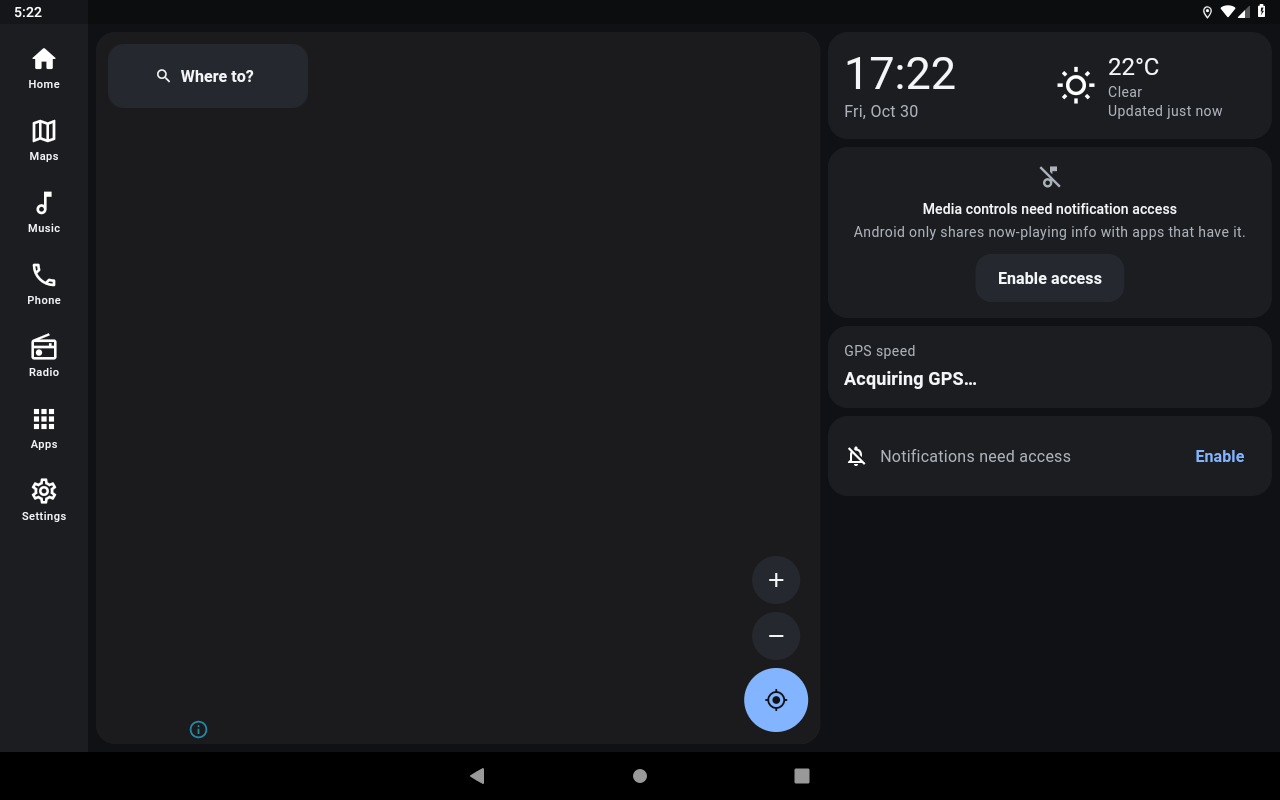
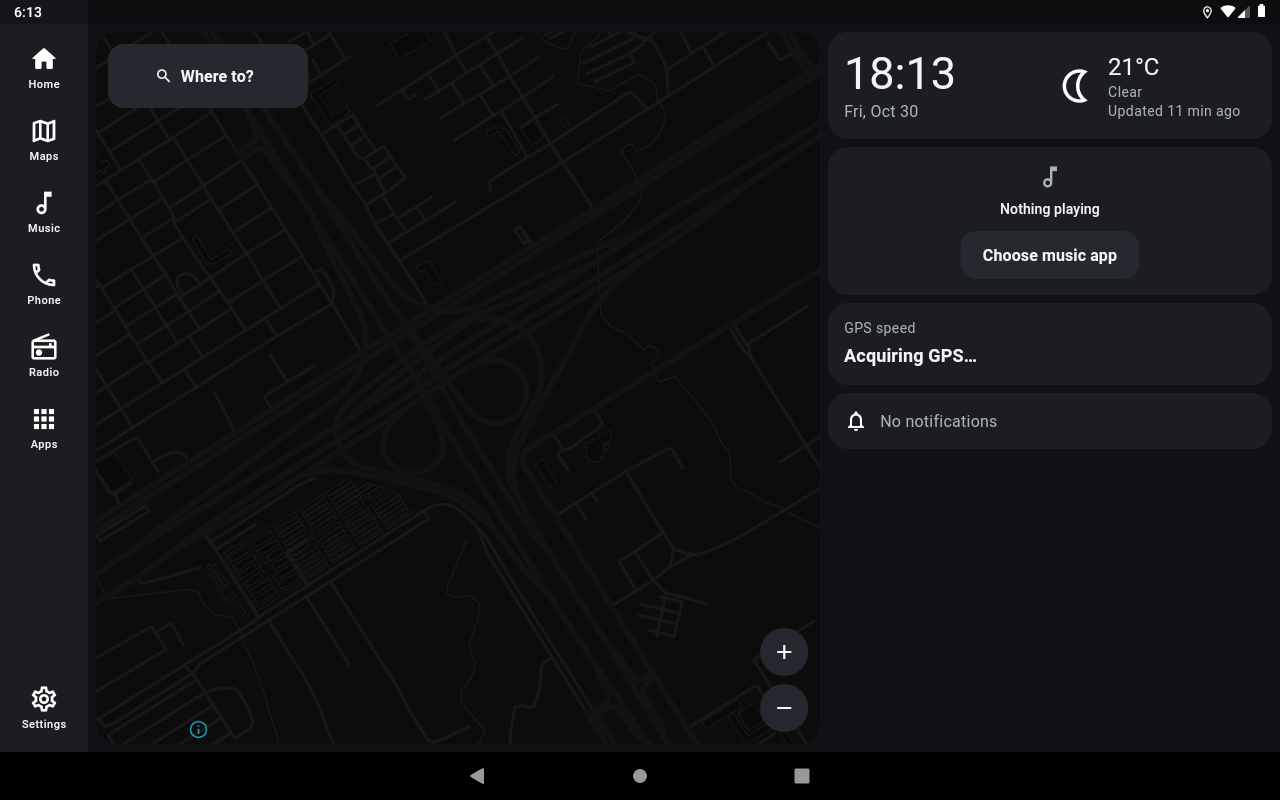
Pin Settings in the dock, cut idle map redraws, measure performance, build release
- Dock: Settings sits outside the scrolling list so it stays reachable when the user pins more apps
  than fit; regression test at 683x400 dp with 9 entries.
- Map: skip near-duplicate location pushes (3 m / 10 deg) and keep the puck fresh with one push every
  25 s; idle CPU on the emulator 15.9 % -> 8.4 % of a core.
- Performance mode now also stops the per-second media progress tick, as Settings promised.
- Debug/profile builds show frames per 10 s on Diagnostics (vivo throttles logcat).
- docs: PERFORMANCE.md with phone and emulator numbers and APK sizes; TESTING and COMPATIBILITY
  updated with the phone results and the emulator SwiftShader limitation; new dashboard screenshot.

diff --git a/lib/features/dashboard/ui/dock.dart b/lib/features/dashboard/ui/dock.dart
@@ -57,19 +57,15 @@ class Dock extends ConsumerWidget {
 
   @override
   Widget build(BuildContext context, WidgetRef ref) {
+    // Settings is pinned at the end, outside the scrolling part, so it stays reachable even when the user
+    // removed it from the dock or added more entries than fit.
     final entries = ref
         .watch(settingsProvider.select((s) => s.dock))
         .map(DockEntry.parse)
         .nonNulls
+        .where((e) => !(e is BuiltinEntry && e.id == 'settings'))
         .toList();
-    final hasSettings = entries.any(
-      (e) => e is BuiltinEntry && e.id == 'settings',
-    );
-    final shown = [
-      ...entries,
-      // Settings must always be reachable, even if the user removed it from the dock.
-      if (!hasSettings) const BuiltinEntry('settings'),
-    ];
+    const padding = EdgeInsets.all(SdSpace.sm);
     return Material(
       color: Theme.of(context).colorScheme.surface,
       child: SafeArea(
@@ -83,16 +79,38 @@ class Dock extends ConsumerWidget {
               // Shrink buttons so the whole dock fits (e.g. 1024x600 at hdpi is only ~400 dp tall); below the
               // minimum touch target the dock scrolls instead.
               final main = vertical ? box.maxHeight : box.maxWidth;
-              final extent = ((main - 2 * SdSpace.sm) / shown.length).clamp(
-                SdSize.minTarget,
-                72.0,
-              );
-              return ListView(
-                scrollDirection: vertical ? Axis.vertical : Axis.horizontal,
-                padding: const EdgeInsets.all(SdSpace.sm),
+              final extent = ((main - 2 * SdSpace.sm) / (entries.length + 1))
+                  .clamp(SdSize.minTarget, 72.0);
+              final axis = vertical ? Axis.vertical : Axis.horizontal;
+              return Flex(
+                direction: axis,
                 children: [
-                  for (final e in shown)
-                    _DockButton(entry: e, extent: extent, vertical: vertical),
+                  Expanded(
+                    child: ListView(
+                      scrollDirection: axis,
+                      padding: vertical
+                          ? padding.copyWith(bottom: 0)
+                          : padding.copyWith(right: 0),
+                      children: [
+                        for (final e in entries)
+                          _DockButton(
+                            entry: e,
+                            extent: extent,
+                            vertical: vertical,
+                          ),
+                      ],
+                    ),
+                  ),
+                  Padding(
+                    padding: vertical
+                        ? padding.copyWith(top: 0)
+                        : padding.copyWith(left: 0),
+                    child: _DockButton(
+                      entry: const BuiltinEntry('settings'),
+                      extent: extent,
+                      vertical: vertical,
+                    ),
+                  ),
                 ],
               );
             },

diff --git a/lib/features/maps/ui/map_panel.dart b/lib/features/maps/ui/map_panel.dart
@@ -15,6 +15,7 @@ import '../../apps/ui/app_picker.dart';
 import '../../location/data/location_repository.dart';
 import '../../location/state/location_providers.dart';
 import '../../navigation/data/navigation_models.dart';
+import '../../navigation/domain/route_geometry.dart';
 import '../../navigation/state/navigation_providers.dart';
 import '../../navigation/ui/destination_sheet.dart';
 import '../../navigation/ui/nav_banner.dart';
@@ -38,6 +39,7 @@ class _MapPanelState extends ConsumerState<MapPanel> {
   bool _follow = true;
   bool _failed = false;
   bool _zoomedToFirstFix = false;
+  LocationFix? _lastPushed;
   int _generation = 0;
   Timer? _timeout;
   final _initWatch = Stopwatch();
@@ -109,7 +111,8 @@ class _MapPanelState extends ConsumerState<MapPanel> {
     }
     if (mounted) setState(() => _styleLoaded = true);
     final fix = ref.read(locationProvider).fix;
-    if (fix != null) _pushFix(fix);
+    // A (re)loaded style has a fresh location component, so always push.
+    if (fix != null) _pushFix(fix, force: true);
   }
 
   static String _hex(Color c) =>
@@ -190,9 +193,28 @@ class _MapPanelState extends ConsumerState<MapPanel> {
     );
   }
 
-  void _pushFix(LocationFix fix) {
+  /// Every pushed fix re-runs the native puck/camera animation (~100 frames on the test phone), so
+  /// near-duplicates from a parked car are skipped; a periodic push keeps the puck from looking stale
+  /// (MapLibre greys it after 30 s without an update, and the plugin does not expose that timeout).
+  bool _worthPushing(LocationFix fix) {
+    final last = _lastPushed;
+    if (last == null ||
+        monotonicNow() - last.fixTime > const Duration(seconds: 25)) {
+      return true;
+    }
+    final moved = haversine(
+      GeoPoint(last.lat, last.lon),
+      GeoPoint(fix.lat, fix.lon),
+    );
+    final turned = ((fix.bearing ?? 0) - (last.bearing ?? 0)).abs() % 360;
+    return moved > 3 || (turned > 10 && turned < 350);
+  }
+
+  void _pushFix(LocationFix fix, {bool force = false}) {
     final c = _controller;
     if (c == null || !_styleLoaded) return;
+    if (!force && !_worthPushing(fix)) return;
+    _lastPushed = fix;
     c
         .updateManualLocation(
           ManualLocationUpdate(

diff --git a/lib/core/perf/perf_metrics.dart b/lib/core/perf/perf_metrics.dart
@@ -1,3 +1,5 @@
+import 'dart:async';
+
 import 'package:flutter/foundation.dart';
 import 'package:flutter/scheduler.dart';
 
@@ -6,12 +8,24 @@ abstract final class PerfMetrics {
   static final _recent = <FrameTiming>[];
   static Duration? mapInitTime;
   static Duration? firstFrameTime;
+  static int _framesSinceReport = 0;
+
+  /// Frames rendered in each of the last six 10-second windows, newest last.
+  static final framesPer10s = <int>[];
 
   static void install() {
     if (kReleaseMode) return;
     SchedulerBinding.instance.addTimingsCallback((timings) {
+      _framesSinceReport += timings.length;
       _recent.addAll(timings);
       if (_recent.length > 240) _recent.removeRange(0, _recent.length - 240);
+    });
+    // Console only (not the diagnostic log): frames per 10 s shows what an idle dashboard costs.
+    Timer.periodic(const Duration(seconds: 10), (_) {
+      debugPrint('[perf] $_framesSinceReport frames in 10 s');
+      framesPer10s.add(_framesSinceReport);
+      if (framesPer10s.length > 6) framesPer10s.removeAt(0);
+      _framesSinceReport = 0;
     });
   }
 

diff --git a/lib/features/media/ui/media_card.dart b/lib/features/media/ui/media_card.dart
@@ -225,7 +225,8 @@ class _NowPlaying extends ConsumerWidget {
 }
 
 /// Progress extrapolated locally from the last reported position. Ticks once a second, only while
-/// playing and visible (TickerMode is off when a route covers the dashboard).
+/// playing and visible (TickerMode is off when a route covers the dashboard) and not in performance mode,
+/// where it moves only when the player reports a new position.
 class _Progress extends ConsumerStatefulWidget {
   const _Progress({required this.session});
 
@@ -246,6 +247,7 @@ class _ProgressState extends ConsumerState<_Progress> {
       if (mounted &&
           widget.session.isPlaying &&
           TickerMode.valuesOf(context).enabled &&
+          !ref.read(settingsProvider).performanceMode &&
           _dragValue == null) {
         setState(() {});
       }

diff --git a/test/widget/app_test.dart b/test/widget/app_test.dart
@@ -96,6 +96,23 @@ void main() {
       await tearDownScreen(tester, c);
     });
 
+    testWidgets('Settings stays on screen when the dock overflows', (
+      tester,
+    ) async {
+      c = await makeContainer(
+        fakes,
+        settings: const LauncherSettings(
+          onboardingDone: true,
+          mapEnabled: false,
+          dock: [...defaultDock, 'app:com.example.a/.Main', 'builtin:apps'],
+        ),
+      );
+      await pumpApp(tester, c, size: const Size(683, 400));
+      expect(find.byTooltip('Settings').hitTestable(), findsOneWidget);
+      expect(tester.takeException(), isNull);
+      await tearDownScreen(tester, c);
+    });
+
     testWidgets('theme follows the setting instantly', (tester) async {
       await pumpApp(tester, c);
       Brightness brightness() =>

diff --git a/lib/features/diagnostics/ui/diagnostics_screen.dart b/lib/features/diagnostics/ui/diagnostics_screen.dart
@@ -216,7 +216,8 @@ class _DebugMetrics extends ConsumerWidget {
       subtitle: Text(
         'Last $frames frames: build ${build.toStringAsFixed(1)} ms, raster ${raster.toStringAsFixed(1)} ms, $slow over 16 ms\n'
         'First frame: ${PerfMetrics.firstFrameTime?.inMilliseconds ?? '–'} ms · '
-        'Map style load: ${PerfMetrics.mapInitTime?.inMilliseconds ?? '–'} ms · Media sessions: $sessions',
+        'Map style load: ${PerfMetrics.mapInitTime?.inMilliseconds ?? '–'} ms · Media sessions: $sessions\n'
+        'Frames per 10 s (oldest first): ${PerfMetrics.framesPer10s.join(', ')}',
       ),
     );
   }

diff --git a/lib/core/logging/app_log.dart b/lib/core/logging/app_log.dart
@@ -37,7 +37,7 @@ abstract final class AppLog {
   static void _add(LogLevel level, String tag, String message) {
     if (_entries.length == capacity) _entries.removeFirst();
     _entries.add(LogEntry(level, tag, message));
-    if (kDebugMode) debugPrint('[${level.name}] $tag: $message');
+    if (!kReleaseMode) debugPrint('[${level.name}] $tag: $message');
   }
 
   static void clear() => _entries.clear();

diff --git a/docs/PERFORMANCE.md b/docs/PERFORMANCE.md
@@ -1,0 +1,72 @@
+# Performance
+
+## Rules the code follows
+
+- **No continuous animation.** No blur, no decorative motion, no indeterminate spinners on the dashboard. The
+  clock wakes once per minute (aligned to the minute). The media progress bar is extrapolated locally and runs
+  only while the card is visible and the session is playing.
+- **Rebuild scope.** Widgets watch narrow `select`s of providers. The map and each dashboard card sit in their
+  own `RepaintBoundary`, so a speed update repaints only the speed card.
+- **No polling.** Location, media, notifications, packages and Bluetooth arrive as native broadcast or callback
+  streams. They are subscribed only while the launcher is in the foreground and their startup stage is reached.
+  Weather refreshes every 30 min (60 min in performance mode).
+- **Staged startup.** First frame first. Apps come next, then media and location, then the map, and weather and
+  diagnostics last (see ARCHITECTURE.md).
+- **Map location pushes are filtered.** Every pushed fix makes MapLibre animate the puck and the follow camera,
+  which redraws the whole map for about a second. A fix is pushed only when the car moved more than 3 m or turned
+  more than 10°, plus one keep-alive every 25 s. The keep-alive stops MapLibre greying out the puck after 30 s;
+  the plugin does not expose that timeout.
+- **Performance mode** turns off page transitions, the per-second media progress tick and the map compass, and
+  doubles the weather refresh interval.
+
+## How it was measured
+
+Profile builds (`flutter build apk --profile`), with the dashboard idle, map enabled, dark theme, and no media
+playing. A script runs:
+- `am start -W` from a force-stopped process three times (the *TotalTime* column).
+- Our own log lines for time from `main()` to first frame and map style load.
+- `/proc/<pid>/stat` CPU ticks over 30 s of no input, and the same per thread (`/proc/<pid>/task/*`).
+- Flutter frames per 10 s (`PerfMetrics`, shown on Diagnostics in debug and profile builds).
+- `dumpsys meminfo`.
+
+## Results (2026-10-30)
+
+| | vivo V2413, Android 16 (phone) | AVD 1280×800, API 28, SwiftShader |
+|---|---|---|
+| Cold start, `am start -W` TotalTime | 345–402 ms | 1028–1220 ms |
+| `main()` → first frame | 48–57 ms | 117–169 ms |
+| Map style load (cached) | 21–27 ms | 175–204 ms |
+| Idle CPU, no location filter | 13.4 % of one core | – |
+| Idle CPU, 3 m / 10° filter, 15 s keep-alive | 7.6 % | 15.9 % |
+| Idle CPU, 3 m / 10° filter, 25 s keep-alive (current) | not re-measured | 8.4 % |
+| Idle Flutter frames per 10 s | 0 / 95 / 0 / 101 (before filter) | 42 / 0 / 56 / 0 / 0 (current) |
+| Memory (PSS) | 256–260 MB: Graphics 82–84, Native ≈ 58, Java ≈ 14 | Java 9.5 MB, Native 31.5 MB (graphics are host-side) |
+
+Per-thread sampling on the emulator shows where the idle CPU goes: about two-thirds is MapLibre's own render
+thread (`TextureViewRend`), and the rest is the Android main thread, which runs MapLibre's location animators.
+Flutter's UI and raster threads are near zero between bursts. The remaining idle cost is the keep-alive push,
+and a parked car now causes one short burst every 25 s.
+
+### Caveats
+
+- The phone numbers are from a profile build signed with the debug key. The user was using the phone during
+  the last session, so the 25 s keep-alive was measured on the emulator only. A 12 % reading taken while the phone
+  was being touched is discarded.
+- The emulator renders with SwiftShader, so its GPU work happens on the host. Its timings are much slower and
+  its graphics memory reads 0. Compare the two columns only by trend, not by value.
+- vivo throttles app logcat output, so the phone's frame counts were read from the Diagnostics screen.
+- No head unit has been measured. Cheap units (4 × Cortex-A7/A53, 1–2 GB RAM) will be slower. Turn on
+  Performance mode there, or disable the embedded map.
+
+## APK sizes
+
+| Build | Size |
+|---|---|
+| `app-release.apk` (arm64-v8a + armeabi-v7a + x86_64) | 83.5 MB |
+| `app-arm64-v8a-release.apk` | 30.6 MB |
+| `app-armeabi-v7a-release.apk` | 25.4 MB |
+| `app-x86_64-release.apk` | 32.4 MB |
+| `app-profile.apk` (all ABIs) | 127.3 MB |
+
+Most of the size is MapLibre's native library per ABI. Install the split for your unit's ABI. `adb shell getprop
+ro.product.cpu.abilist` lists it.

diff --git a/docs/COMPATIBILITY.md b/docs/COMPATIBILITY.md
@@ -16,8 +16,8 @@ No vehicle-specific feature is claimed.
 
 | Device | Android | Result |
 |---|---|---|
-| AVD 1280×800 @160 dpi, AOSP image, no Play Services | 9 (API 28) | Verified: onboarding, dashboard, map with OpenFreeMap, injected GPS position, Open-Meteo weather, diagnostics, drawer, theme switch, integration test |
-| vivo V2413 (phone) | 16 (API 36) | Debug APK installs and starts (first frame logged). Screens not inspected: the phone was locked |
+| AVD 1280×800 @160 dpi, AOSP image, no Play Services | 9 (API 28) | Verified: onboarding, dashboard, map with OpenFreeMap, injected GPS position, Open-Meteo weather, diagnostics, drawer, theme switch, integration test, release APK (x86_64) start. With the `swiftshader_indirect` GPU the map draws no labels and no location puck (MapLibre symbol rendering fails with `std::bad_alloc`); both render on the phone's real GPU |
+| vivo V2413 (phone, 2800×1260, landscape ≈ 933×420 dp) | 16 (API 36) | Verified: integration test; real GPS puck, map labels and follow mode; weather with a Geocoder place name; all permission prompts; Bluetooth status; set-default and return-to-factory launcher entries; drawer lists and launches real apps, Back returns; dock fits icon-only |
 | Generic Chinese Android head units | 9–13 | Expected. Not tested |
 | Suzuki Swift GLX CVT 2026 (Pakistan) head unit | unknown | **Unknown. Not tested.** See HARDWARE_TESTING.md |
 
@@ -52,4 +52,7 @@ No vehicle-specific feature is claimed.
 - **Location providers on API < 30:** `onStatusChanged`, `onProviderEnabled` and `onProviderDisabled` are
   overridden explicitly to avoid `AbstractMethodError`.
 - **Screen sizes:** 1024×600, 1280×720, 1280×800 and 1920×720 are covered by widget tests. Small screens switch
-  to the compact layout automatically.
+  to the compact layout automatically. On short screens dock buttons shrink to icon-only (48 dp minimum) and the
+  dock scrolls, with Settings pinned so it is always reachable.
+- **vivo log throttling:** vivo phones rate-limit app logcat output (`persist.log.ratelimit`), which also breaks
+  `flutter run`'s log reader. Debug and profile builds show their metrics on the Diagnostics screen instead.

diff --git a/docs/TESTING.md b/docs/TESTING.md
@@ -5,7 +5,7 @@
 | Suite | Location | Runs on | Count |
 |---|---|---|---|
 | Dart unit tests | `test/unit/` | host (`flutter test`) | 52 |
-| Widget tests | `test/widget/` | host (`flutter test`) | 19 |
+| Widget tests | `test/widget/` | host (`flutter test`) | 21 |
 | Native JUnit tests | `android/app/src/test/` | host JVM (`./gradlew :app:testDebugUnitTest`) | 4 |
 | Integration test | `integration_test/` | emulator or device, real platform channels | 1 flow |
 
@@ -50,6 +50,8 @@ by the fakes in `test/fakes/fakes.dart`. The fakes are never imported by `lib/`.
 
 - Dashboard at **1024×600, 1280×720, 1280×800, 1920×720** and phone portrait: no overflow, and Settings is
   reachable from the dock.
+- Dock at 683×400 dp (a 1024×600 hdpi unit): every button is on screen, and Settings stays on screen when the
+  user pins more apps than fit (the rest of the dock scrolls).
 - Instant theme switch. First run shows onboarding, and *Skip* persists onboarding as done.
 - Media card: no-access state links to settings; a playing session shows metadata and sends pause/next.
 - Speed card: acquiring → 36 km/h from a 10 m/s fix; GPS-off state with a *Turn on* action.
@@ -100,9 +102,9 @@ example Android Studio's `jbr` folder.
 
 Run on 2026-10-30, Windows 11, Flutter 3.47.5:
 - `flutter analyze`: no issues.
-- `flutter test`: 71 passed, 0 failed.
+- `flutter test`: 73 passed, 0 failed (52 unit, 21 widget).
 - JUnit: 4 passed, 0 failed.
-- Integration (emulator `SwiftDrive_HU_1280x800`, API 28): see the final report in the commit history.
+- Integration: passed on the emulator `SwiftDrive_HU_1280x800` (API 28) and on the vivo V2413 (Android 16).
 
-The phone (vivo V2413) was not used for the integration test because it was locked, and USB debugging later
-disconnected.
+`flutter test integration_test` replaces `build/app/outputs/flutter-apk/app-debug.apk` with the test harness.
+Rebuild with `flutter build apk --debug` before installing it by hand.
